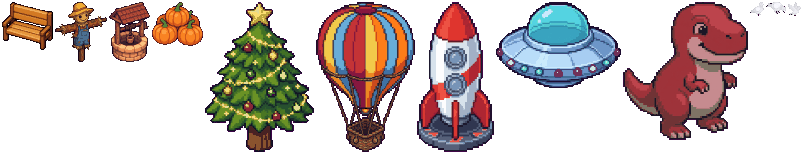
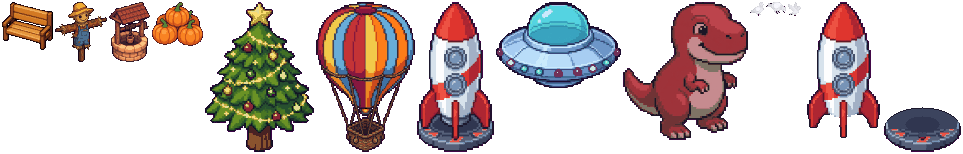
The balloon keeps its size on its round; the rocket lifts off its pad
The map is seen from above, so the balloon no longer shrinks up high; its
loop is a little flatter so its top stays on the map. The rocket picture is
split into the rocket and its launch pad (two new frames in made.png): the
pad stays on the ground while the rocket flies off and lands back on it.

diff --git a/tests/scenes/ranchDecor.test.ts b/tests/scenes/ranchDecor.test.ts
@@ -14,9 +14,9 @@ function fakeScene() {
   const tweens: { cfg: Record<string, unknown>; removed: boolean }[] = [];
   const chain = (): Record<string, unknown> => new Proxy({}, { get: (_t, k) => (k === 'destroy' ? () => {} : () => chain()) });
   const images: Record<string, unknown>[] = [];
-  const image = () => {
+  const image = (x = 0, y = 0, key = '', frame?: string) => {
     const img: Record<string, unknown> = {
-      active: true, x: 0, y: 0, flipX: false, scaleX: 1, displayHeight: 60, texture: { key: '' },
+      active: true, x, y, flipX: false, scaleX: 1, displayHeight: 60, texture: { key }, frameName: frame,
     };
     const live = (fn: (...a: unknown[]) => void) => (...a: unknown[]) => {
       if (!img.active) throw new TypeError("Cannot read properties of undefined (reading 'sys')");
@@ -202,7 +202,7 @@ describe('decoration layer: the tricks of the specials', () => {
     });
   }
 
-  it('the balloon flies its round above everything else', () => {
+  it('the balloon flies its round above everything else, the same size all the way (the map is seen from above)', () => {
     const { layer, img, tweens } = show('balloon');
     const size = img.scaleX as number;
     layer.play(0);
@@ -210,7 +210,7 @@ describe('decoration layer: the tricks of the specials', () => {
     const want = balloonAt(BIG_SPOTS[0], 0.5);
     expect(img.x).toBeCloseTo(want.x);
     expect(img.y).toBeCloseTo(want.y);
-    expect(img.scaleX).toBeCloseTo(size * want.scale);
+    expect(img.scaleX).toBe(size);
     expect(img.depth).toBe(deps.flyDepth);
   });
 
@@ -225,10 +225,16 @@ describe('decoration layer: the tricks of the specials', () => {
     expect(flush).not.toThrow();
   });
 
-  it('the rocket goes up out of sight before it lands again', () => {
-    const { layer, img, tweens } = show('rocket');
+  it('the rocket goes up out of sight before it lands again, leaving its launch pad on the ground', () => {
+    const { layer, img, tweens, images, flush } = show('rocket');
     layer.play(0);
     at(tweens, 0.5);
     expect(img.y).toBeLessThan(0); // above the top of the map
+    expect(img.frameName).toBe('rocketBody');
+    const pad = images.find(i => i.frameName === 'rocketPad')!;
+    expect([pad.x, pad.y, pad.active]).toEqual([BIG_SPOTS[0].x, BIG_SPOTS[0].y, true]);
+    flush(); // landed: one picture again
+    expect(img.frameName).toBe('rocket');
+    expect(pad.active).toBe(false);
   });
 });

diff --git a/src/scenes/trickMoves.ts b/src/scenes/trickMoves.ts
@@ -17,22 +17,24 @@ const z = (n: number): number => n || 0;
 // ---------------------------------------------------------------- the hot-air balloon
 
 export const BALLOON_MS = 10_000;
-/** The loop round the farm: its middle, its size, and how small the balloon looks up there. */
-const LOOP = { cx: 600, cy: 920, rx: 700, ry: 700, scale: 0.6 };
+/**
+ * The loop round the farm: its middle and its size. The map is seen from straight above, so the
+ * balloon keeps its size up there; the loop keeps its top (330 units over its foot) on the map.
+ */
+const LOOP = { cx: 600, cy: 1000, rx: 700, ry: 620 };
 /** The take-off and the landing, each a share of the trick; the loop is the rest. */
 const RISE = 0.15;
 
 /** Where the balloon is: up from its spot, once round the farm, back down. */
-export function balloonAt(home: Pt, k: number): Pt & { scale: number } {
+export function balloonAt(home: Pt, k: number): Pt {
   const a0 = Math.atan2((home.y - LOOP.cy) / LOOP.ry, (home.x - LOOP.cx) / LOOP.rx);
   const on = (a: number): Pt => ({ x: LOOP.cx + LOOP.rx * Math.cos(a), y: LOOP.cy + LOOP.ry * Math.sin(a) });
   const start = on(a0);
   if (k <= RISE || k >= 1 - RISE) {
     const t = ease(k <= RISE ? k / RISE : (1 - k) / RISE); // 0 at home, 1 on the loop
-    return { x: lerp(home.x, start.x, t), y: lerp(home.y, start.y, t), scale: lerp(1, LOOP.scale, t) };
+    return { x: lerp(home.x, start.x, t), y: lerp(home.y, start.y, t) };
   }
-  const p = on(a0 + 2 * Math.PI * ease((k - RISE) / (1 - 2 * RISE)));
-  return { ...p, scale: LOOP.scale };
+  return on(a0 + 2 * Math.PI * ease((k - RISE) / (1 - 2 * RISE)));
 }
 
 // ---------------------------------------------------------------- the UFO

diff --git a/tests/scenes/trickMoves.test.ts b/tests/scenes/trickMoves.test.ts
@@ -17,11 +17,9 @@ describe('the hot-air balloon flies once round the farm', () => {
 
   for (const slot of [0, 1] as const) {
     const home = BIG_SPOTS[slot];
-    it(`leaves from and lands on its own spot (slot ${slot}), smaller while high up`, () => {
+    it(`leaves from and lands on its own spot (slot ${slot})`, () => {
       near(balloonAt(home, 0), home);
       near(balloonAt(home, 1), home);
-      expect(balloonAt(home, 0).scale).toBe(1);
-      expect(balloonAt(home, 0.5).scale).toBeLessThan(1);
     });
 
     it(`goes all the way round the middle of the farm and stays over the map (slot ${slot})`, () => {
@@ -31,7 +29,7 @@ describe('the hot-air balloon flies once round the farm', () => {
         const p = balloonAt(home, i / 200);
         expect(p.x).toBeGreaterThan(W.x);
         expect(p.x).toBeLessThan(W.x + W.w);
-        expect(p.y - 330 * p.scale).toBeGreaterThan(W.y - 1); // its top stays on the map
+        expect(p.y - 330).toBeGreaterThan(W.y - 1); // its top stays on the map (seen from above: no smaller up high)
         expect(p.y).toBeLessThanOrEqual(W.y + W.h);
         if (p.x < 100) left = true;
         if (p.x > 1100) right = true;

diff --git a/src/scenes/ranchDecor.ts b/src/scenes/ranchDecor.ts
@@ -376,12 +376,18 @@ export class DecorLayer {
         img.setDepth(this.deps.flyDepth);
         step = k => {
           const q = balloonAt(p, k);
-          img.setPosition(q.x, q.y).setScale(size * q.scale);
+          img.setPosition(q.x, q.y);
         };
         break;
       case 'rocket': {
         // a little shake for the countdown, straight up and out of sight, a wait, and down again
         const top = Math.min(this.scene.cameras?.main?.worldView?.y ?? SCENERY_WORLD.y, SCENERY_WORLD.y) - 60;
+        const body = this.art('rocketBody');
+        const pad = this.art('rocketPad');
+        if (body && pad) { // the launch pad stays on the ground
+          img.setTexture(body.key, 'rocketBody');
+          this.extra(b, this.scene.add.image(p.x, p.y, pad.key, 'rocketPad').setOrigin(0.5, 1).setScale(size).setDepth(this.deps.depth + 0.1));
+        }
         img.setDepth(this.deps.flyDepth);
         let at = 0;
         this.loop(b.fx, 100, () => {

diff --git a/src/scenes/decorMadeAtlas.ts b/src/scenes/decorMadeAtlas.ts
@@ -10,6 +10,9 @@ export const DECOR_MADE_FRAMES = {
   pigeon0: [750, 2, 14, 14],
   pigeon1: [766, 2, 20, 12],
   pigeon2: [788, 2, 13, 14],
+  // the rocket in two parts, each the whole rocket's size: it lifts off and leaves its pad behind
+  rocketBody: [805, 2, 77, 150],
+  rocketPad: [884, 2, 77, 150],
 } as const satisfies Record<string, readonly [number, number, number, number]>;
 
 export const SPECIAL_FRAMES = {
@@ -20,4 +23,4 @@ export const SPECIAL_FRAMES = {
   dino: [623, 2, 125, 138],
 } as const satisfies Record<string, readonly [number, number, number, number]>;
 
-export const DECOR_MADE_SIZE = { w: 803, h: 154 } as const;
+export const DECOR_MADE_SIZE = { w: 963, h: 154 } as const;

diff --git a/tests/scenes/decorAtlas.test.ts b/tests/scenes/decorAtlas.test.ts
@@ -23,6 +23,11 @@ describe('decoration atlas (generated)', () => {
     expect(Object.keys(SPECIAL_FRAMES).sort()).toEqual([...SPECIAL_ORDER].sort());
   });
 
+  it('also has the rocket and its launch pad apart, each the size of the whole, so the rocket can lift off', () => {
+    expect(DECOR_MADE_FRAMES.rocketBody.slice(2)).toEqual(SPECIAL_FRAMES.rocket.slice(2));
+    expect(DECOR_MADE_FRAMES.rocketPad.slice(2)).toEqual(SPECIAL_FRAMES.rocket.slice(2));
+  });
+
   it('keeps every frame inside the image', () => {
     for (const [id, [x, y, w, h]] of Object.entries({ ...DECOR_MADE_FRAMES, ...SPECIAL_FRAMES })) {
       expect(x >= 0 && y >= 0 && w > 0 && h > 0, id).toBe(true);

diff --git a/CREDITS.md b/CREDITS.md
@@ -12,7 +12,7 @@
 | public/assets/scenery/scenery.png、farmhouse.png（由下方「牧場景觀」各素材包裁切、拼合） | 見下方「牧場景觀」 | 見下方「牧場景觀」 | CC-BY-SA 3.0 |
 | public/assets/ranch/dog.png、cat.png（狗：柴犬、大麥町、柯基、邊境牧羊犬；貓：橘虎斑、三花貓、賓士貓、暹羅貓） | 本專案以 Google Antigravity CLI 的圖像模型（gemini-3.1-flash-image）生成，再去背、縮小、量化成 40 px 像素圖 | Azt（AI 生成） | 本專案自製，不含第三方素材 |
 | public/assets/decor/lpc.png（裝飾：彩色、向日葵、玫瑰、藍色花圃、樹叢、小樹、大香菇、池塘；由「牧場景觀」的 LPC Flowers / Plants / Fungi / Wood、Trees 與 Terrains（池塘的水岸）素材包裁切、拼合） | 見下方「牧場景觀」 | 見下方「牧場景觀」 | CC-BY-SA 3.0 |
-| public/assets/decor/made.png（裝飾：稻草人、水井、南瓜堆、白鴿；驚喜物件：聖誕樹、熱氣球、火箭、飛碟、恐龍） | 本專案以 Google Antigravity CLI 的圖像模型（gemini-3.1-flash-image）生成，再去背、縮小、量化成像素圖（恐龍、白鴿另外換色） | Azt（AI 生成） | 本專案自製，不含第三方素材 |
+| public/assets/decor/made.png（裝飾：稻草人、水井、南瓜堆、白鴿；驚喜物件：聖誕樹、熱氣球、火箭、飛碟、恐龍） | 本專案以 Google Antigravity CLI 的圖像模型（gemini-3.1-flash-image）生成，再去背、縮小、量化成像素圖（恐龍、白鴿另外換色；火箭另拆成火箭本體與發射台兩張，讓火箭能單獨升空） | Azt（AI 生成） | 本專案自製，不含第三方素材 |
 
 ## 牧場景觀（LPC）
 
